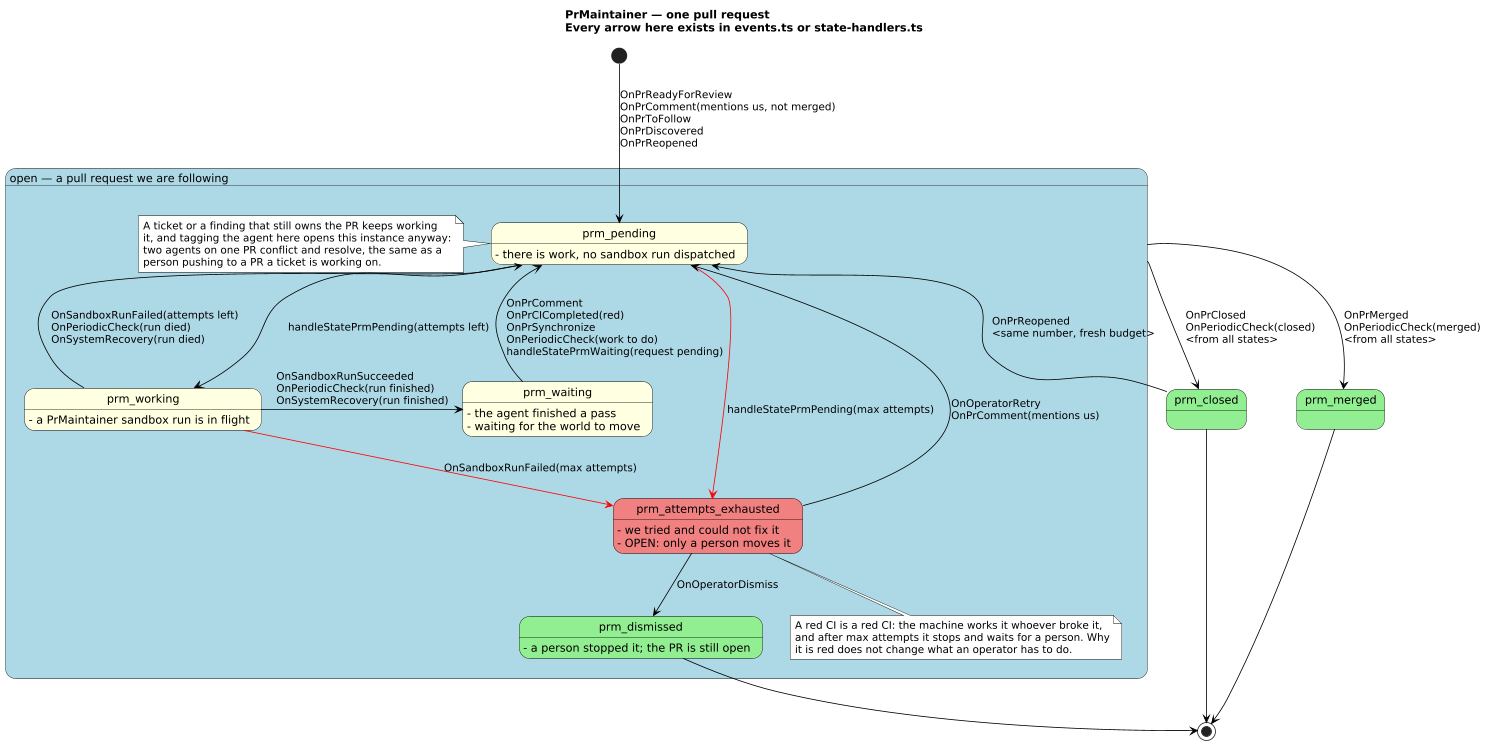
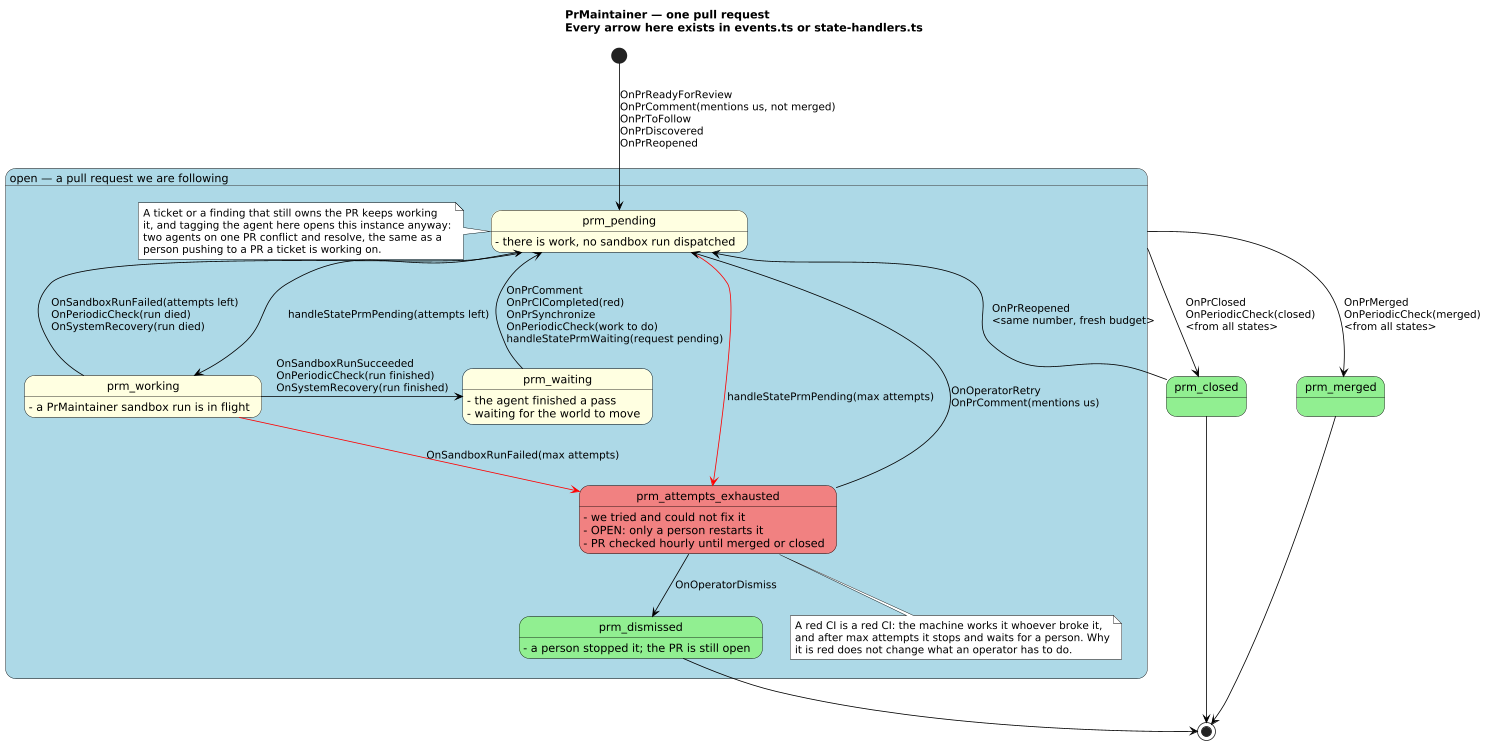
orchestrator: close an exhausted PR maintainer whose pull request ended (#96)
Claude-Session: https://claude.ai/code/session_017EaAMwKn4TLAfxV4nhFDW5

diff --git a/src/orchestrator/state-machines/pr-maintainer/events.test.ts b/src/orchestrator/state-machines/pr-maintainer/events.test.ts
@@ -72,6 +72,7 @@ beforeEach(() => {
         prm_pending: 0,
         prm_working: 0,
         prm_waiting: 0,
+        prm_attempts_exhausted: 0,
       },
     },
     announcer,
@@ -1006,8 +1007,8 @@ describe('onPeriodicCheck', () => {
   const cases: PeriodicCase[] = [
     {
       name: 'When the state has no cadence then should never look at it',
-      from: 'prm_attempts_exhausted',
-      want: { state: 'prm_attempts_exhausted', checked: false },
+      from: 'prm_merged',
+      want: { state: 'prm_merged', checked: false },
     },
     {
       name: 'When the wait has not elapsed then should leave it alone',
@@ -1078,6 +1079,25 @@ describe('onPeriodicCheck', () => {
       name: 'When waiting and there is nothing to do then should leave it waiting',
       from: 'prm_waiting',
       want: { state: 'prm_waiting', checked: true },
+    },
+    {
+      name: 'When attempts are exhausted and the pull request merged then should close it as merged',
+      from: 'prm_attempts_exhausted',
+      snapshot: { state: 'merged' },
+      want: { state: 'prm_merged', checked: true },
+    },
+    {
+      name: 'When attempts are exhausted and the pull request closed then should close it unmerged',
+      from: 'prm_attempts_exhausted',
+      snapshot: { state: 'closed' },
+      want: { state: 'prm_closed', checked: true },
+    },
+    {
+      // Red checks restart a waiting pull request, but only a person restarts this one.
+      name: 'When attempts are exhausted and the checks are red then should leave it for a person',
+      from: 'prm_attempts_exhausted',
+      snapshot: { checksAreRed: true },
+      want: { state: 'prm_attempts_exhausted', checked: true },
     },
     {
       name: 'When the instance is unknown then should ignore it',

diff --git a/src/orchestrator/state-machines/pr-maintainer/events.ts b/src/orchestrator/state-machines/pr-maintainer/events.ts
@@ -556,9 +556,8 @@ export async function onPeriodicCheck(
       case 'prm_waiting':
         return await processPullRequestWhileWaiting(engine, instance);
 
-      // Only a person moves this one, so there is nothing to look at.
       case 'prm_attempts_exhausted':
-        return undefined;
+        return await processPullRequestWhileExhausted(engine, instance);
 
       // The pull request already ended; a late event about it changes nothing.
       case 'prm_merged':
@@ -690,6 +689,24 @@ async function processPullRequestWhileWaiting(
   if (!snapshot.checksAreRed && !snapshot.hasUnresolvedReviewThreads) return undefined;
   instance.needsHumanReason = null;
   return setStateAndRun(engine, instance, 'prm_pending');
+}
+
+// processPullRequestWhileExhausted only notices the pull request ending: only a person
+// restarts the work, but the merge or close webhook may never reach us.
+async function processPullRequestWhileExhausted(
+  engine: PrMaintainerStateEngine,
+  instance: PrMaintainer,
+): Promise<Error | undefined> {
+  const repository = engine.store.getRepositoryById(instance.repositoryId);
+  if (!repository) return undefined;
+  const snapshot = await engine.github.readPullRequest(
+    repository.fullName,
+    instance.pullRequestNumber,
+  );
+
+  if (snapshot.state === 'merged') return setState(engine, instance, 'prm_merged');
+  if (snapshot.state === 'closed') return setState(engine, instance, 'prm_closed');
+  return undefined;
 }
 
 // settleAttempt spends an attempt only when the pass moved the head; answering a comment

diff --git a/src/config.test.ts b/src/config.test.ts
@@ -89,7 +89,12 @@ describe('loadConfig', () => {
             pollBranchPrefix: 'agent/',
             agentLogin: '',
             commentReactions: { enabled: true, pickup: 'eyes', replied: 'rocket' },
-            checkWaitMs: { prm_pending: 60_000, prm_working: 120_000, prm_waiting: 300_000 },
+            checkWaitMs: {
+              prm_pending: 60_000,
+              prm_working: 120_000,
+              prm_waiting: 300_000,
+              prm_attempts_exhausted: 3_600_000,
+            },
           },
           logReviewer: {
             enabled: false,
@@ -879,9 +884,15 @@ describe('Workflow check wait cadence', () => {
       prm_pending: 30000
       prm_working: 60000
       prm_waiting: 600000
+      prm_attempts_exhausted: 7200000
 `,
       read: (config) => config.workflows.prMaintainer.checkWaitMs,
-      want: { prm_pending: 30_000, prm_working: 60_000, prm_waiting: 600_000 },
+      want: {
+        prm_pending: 30_000,
+        prm_working: 60_000,
+        prm_waiting: 600_000,
+        prm_attempts_exhausted: 7_200_000,
+      },
     },
     {
       name: 'When `log_reviewer` sets a state then should read it',

diff --git a/src/orchestrator/state-machines/fix-implementer/events.ts b/src/orchestrator/state-machines/fix-implementer/events.ts
@@ -547,8 +547,8 @@ async function releasePullRequest(
   return engine.github.markReadyForReview(repository.fullName, instance.pullRequestNumber);
 }
 
-// readPullRequestWhileWaiting reads how the fix's pull request stands, since no webhook
-// reaches this machine.
+// readPullRequestWhileWaiting reads how the fix's pull request stands, for when the
+// webhook never arrived.
 async function readPullRequestWhileWaiting(
   engine: FixImplementerStateEngine,
   instance: FixImplementer,

diff --git a/src/orchestrator/state-machines/pr-maintainer/service.ts b/src/orchestrator/state-machines/pr-maintainer/service.ts
@@ -66,7 +66,7 @@ export interface PrMaintainerConfig {
   // the self-comment filter misses.
   maxRepliesPerThread: number;
   // checkWaitMs is how long each state waits between periodic checks; a state left out is
-  // never checked, which is what prm_attempts_exhausted wants.
+  // never checked.
   checkWaitMs: Partial<Record<PrMaintainerState, number>>;
 }
 

diff --git a/src/config.ts b/src/config.ts
@@ -310,6 +310,7 @@ const DEFAULT_PR_MAINTAINER_CHECK_WAIT_MS: Partial<Record<PrMaintainerState, num
   prm_pending: 60_000,
   prm_working: 120_000,
   prm_waiting: 300_000,
+  prm_attempts_exhausted: 3_600_000,
 };
 
 const DEFAULT_LOG_REVIEWER_CHECK_WAIT_MS: Partial<Record<LogReviewerState, number>> = {

diff --git a/.changeset/exhausted-pr-maintainer-reads-its-pull-request.md b/.changeset/exhausted-pr-maintainer-reads-its-pull-request.md
@@ -1,0 +1,5 @@
+---
+"jardinero": patch
+---
+
+orchestrator: close a PR maintainer that ran out of attempts when its pull request ends and the webhook is lost
